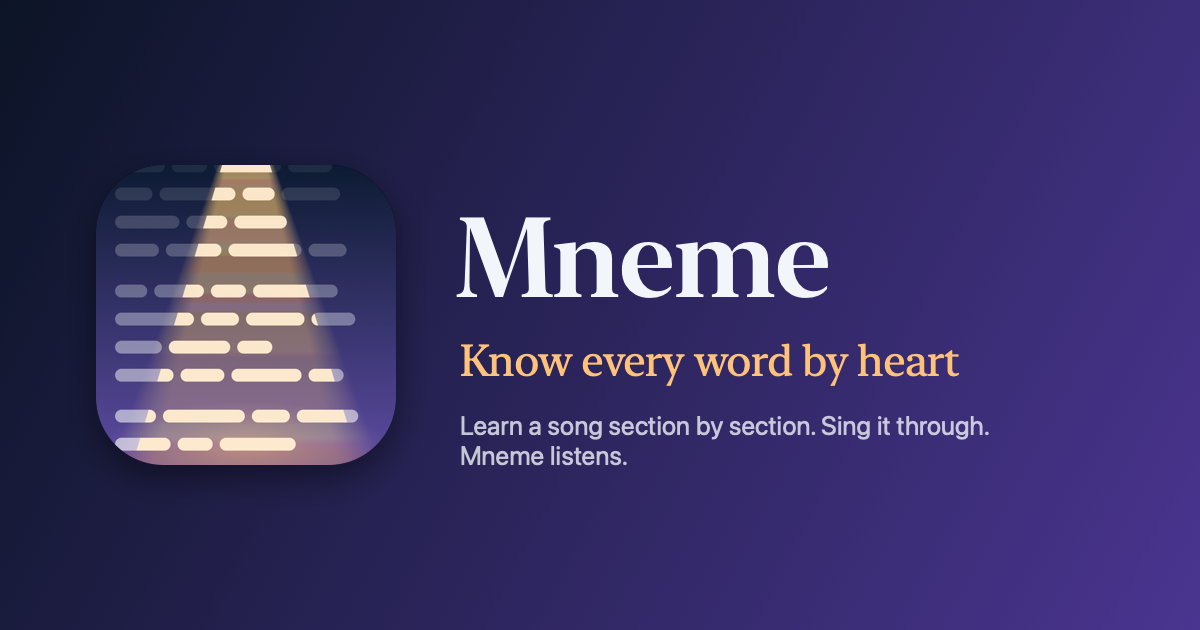
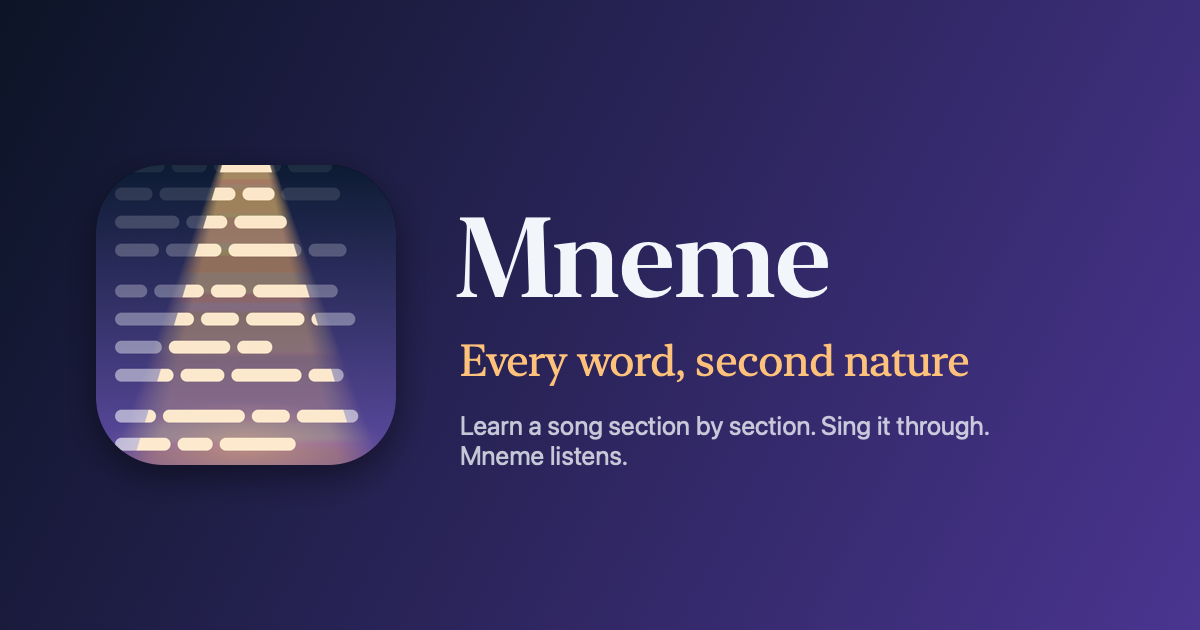
Mneme: new name and subtitle; Find online now opens lyrics sites only

Changed region(s): [[0.37, 0.5429, 0.8017, 0.6032]]

diff --git a/mneme/index.html b/mneme/index.html
@@ -3,12 +3,12 @@
 <head>
 <meta charset="utf-8">
 <meta name="viewport" content="width=device-width, initial-scale=1">
-<title>Mneme: Memorize Song Lyrics for iPhone</title>
+<title>Mneme: Memorize Lyrics Fast, on iPhone</title>
 <meta name="description" content="Mneme is an iPhone app that gets a song from the lyric sheet to sung by heart in as few sessions as possible, and listens to you sing it to prove it. Three songs free.">
 <link rel="canonical" href="https://boynepe.github.io/mneme/">
 <meta property="og:type" content="website">
-<meta property="og:title" content="Mneme: Memorize Song Lyrics">
-<meta property="og:description" content="Learn a song's words by heart, section by section, then sing it through while Mneme listens. Three songs free.">
+<meta property="og:title" content="Mneme: Memorize Lyrics Fast">
+<meta property="og:description" content="Get a song's words automatic, fast: section by section, then sung through while Mneme listens. Three songs free.">
 <meta property="og:url" content="https://boynepe.github.io/mneme/">
 <meta property="og:image" content="https://boynepe.github.io/mneme/assets/og.png">
 <meta name="twitter:card" content="summary_large_image">
@@ -18,7 +18,7 @@
 {
   "@context": "https://schema.org",
   "@type": "MobileApplication",
-  "name": "Mneme: Memorize Song Lyrics",
+  "name": "Mneme: Memorize Lyrics Fast",
   "operatingSystem": "iOS",
   "applicationCategory": "MusicApplication",
   "description": "Learn a song's lyrics by heart, section by section, then sing it through while the app listens and marks every line.",
@@ -35,7 +35,7 @@
   <img src="assets/icon-512.png" alt="">
   <div>
     <h1>Mneme</h1>
-    <p class="muted">Memorize song lyrics, on iPhone</p>
+    <p class="muted">Every word, second nature</p>
   </div>
 </div>
 

diff --git a/mneme/privacy/index.html b/mneme/privacy/index.html
@@ -16,7 +16,7 @@
 </nav>
 
 <h1>Privacy Policy</h1>
-<p class="muted">Last updated 17 October 2026</p>
+<p class="muted">Last updated October 17, 2026</p>
 
 <div class="callout">
 <p><strong>Mneme does not collect any data.</strong> Not anonymized data, not
@@ -52,8 +52,8 @@ photos you pick.</p>
 
 <h2>Find online</h2>
 <p>Find online is a small web browser inside Mneme for searching for a song's
-lyrics. The pages you visit — Google, and the sites you open from it — are
-loaded directly from those sites, under their own privacy policies, the same as
+lyrics. It opens Google, with SafeSearch on, and a list of lyrics sites, and
+nothing else. The pages you visit are loaded directly from those sites, under their own privacy policies, the same as
 in Safari. Mneme reads only the text you select and choose to use. It blocks
 known advertising networks on those pages. Mneme keeps no record of what you
 search for or visit; the sites' own cookies are kept by iOS's web view, as Safari
@@ -68,7 +68,7 @@ governs the purchase.</p>
 <h2>Children</h2>
 <p>Because Mneme collects nothing from anyone, it collects nothing from children
 either. It has no ads and no way to communicate with other people. Find online
-can open any web page, which is reflected in the app's age rating.</p>
+opens only Google, with SafeSearch on, and lyrics sites.</p>
 
 <h2>Your rights</h2>
 <p>Laws such as the GDPR and the CCPA give you the right to see, correct, export

diff --git a/mneme/terms/index.html b/mneme/terms/index.html
@@ -16,7 +16,7 @@
 </nav>
 
 <h1>Terms of Use</h1>
-<p class="muted">Last updated 17 October 2026</p>
+<p class="muted">Last updated October 17, 2026</p>
 
 <p class="lede">Mneme is licensed to you under Apple's Standard End User License
 Agreement, the same terms that cover most apps on the App Store.</p>
